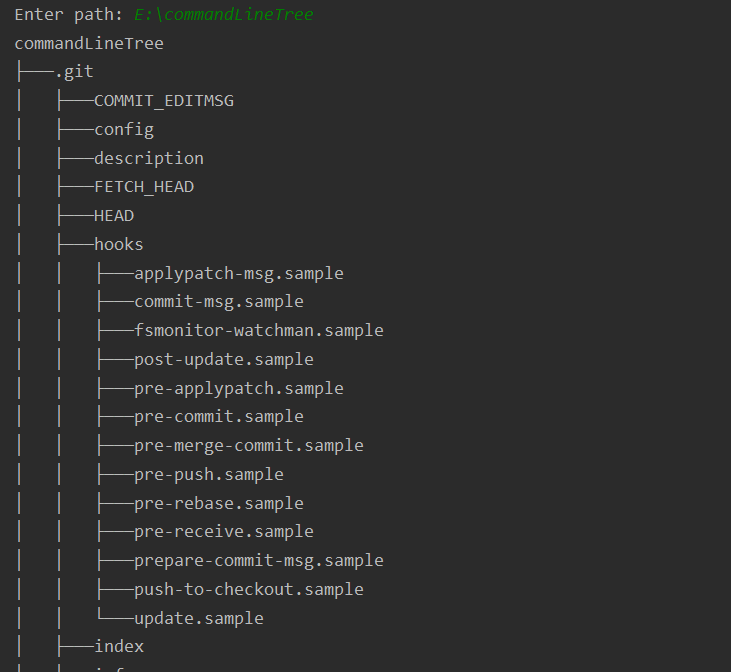
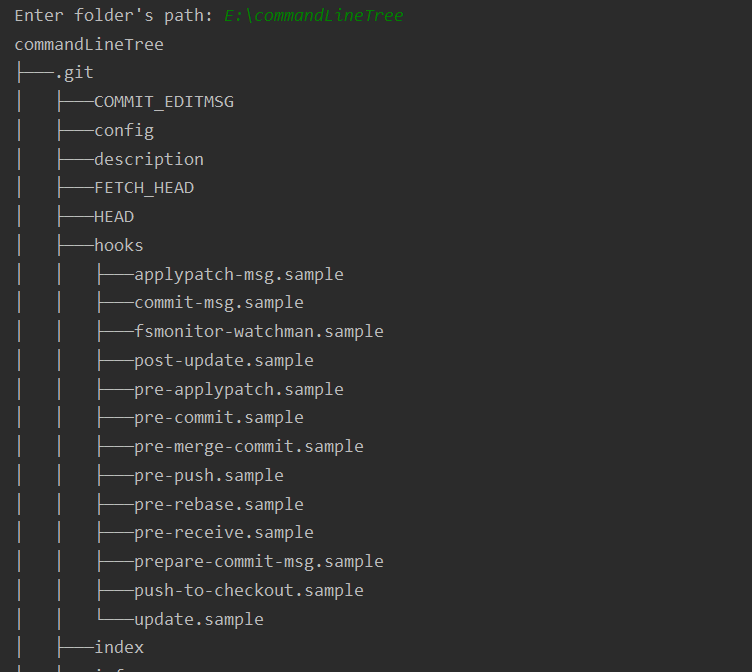
Update client v1.2

diff --git a/src/client/Client.java b/src/client/Client.java
@@ -12,52 +12,29 @@ import java.util.regex.Pattern;
  * @attributes <pre>
  * fileCount        int
  * folderCount      int
- * folderName       String
  * stylize          boolean
  * </pre>
- * @version 1.1
+ * @version 1.2
  * @author Phan Quang Tuan
  */
 public class Client {
     private int fileCount;
     private int folderCount;
-    private String folderName;
     private boolean stylize;
-
-    /**
-     * @effects return fileCount
-     */
-    private int getFileCount() {
-        return fileCount;
-    }
-
-    /**
-     * @effects return folderCount
-     */
-    private int getFolderCount() {
-        return folderCount;
-    }
-
-    /**
-     * @effects return folderName
-     */
-    private String getFolderName() {
-        return folderName;
-    }
 
     private String getDir() {
         Scanner sc = new Scanner(System.in);
-        System.out.print("Enter path: ");
-        String answer = sc.nextLine();
+        System.out.print("Enter folder's path: ");
+        String dirName = sc.nextLine();
 
         Pattern p = Pattern.compile("^(.+)( -s)$");
-        Matcher m = p.matcher(answer);
+        Matcher m = p.matcher(dirName);
         if (m.find()) {
             stylize = true;
             return m.group(1);
         } else {
             stylize = false;
-            return answer;
+            return dirName;
         }
     }
 
@@ -102,45 +79,26 @@ public class Client {
     }
 
     /**
-     * @requires files!=null
-     * @modifies folderName
-     * @effects <pre>
-     *   if f is dir
-     *     set folderName = f.getName()
-     *   else
-     *     set folderName = "this folder is not exist!"
-     * </pre>
+     * a method to call logicLayer layer and count number of file(s) if folderPath is valid.
      */
-    private void updateFolder(File f) {
-        if (f == null) {
-            return;
-        }
+    private void display(String folderPath) {
+        File f = new File(folderPath);
+
         if (f.isDirectory()) {
-            folderName = f.getPath();
-        } else {
-            folderName = "this folder is not exist!";
-        }
-    }
-
-    /**
-     * a method to call logicLayer layer and count number of file(s)
-     */
-    private void display(String folderName) {
-        File f = new File(folderName);
-        updateFolder(f);
-
-        if (f.exists()) {
             long startTime, stopTime, elapsedTime;
             startTime = System.currentTimeMillis();
             System.out.println(GenerateTree.displayFiles(f, stylize));
             stopTime = System.currentTimeMillis();
             elapsedTime = stopTime - startTime;
+            System.out.println("current folder: " + folderPath);
             System.out.println("Algorithm took: " + elapsedTime + " milliseconds to finish");
 
             reset();
             count(f.listFiles());
+            System.out.println("IN TREE (except root): total files: " + fileCount + ", total folders: " + folderCount);
         } else {
             reset();
+            System.out.println("\u001B[31m" + "Folder not found!" + "\u001B[0m");
         }
     }
 
@@ -150,9 +108,6 @@ public class Client {
         startTime = System.currentTimeMillis();
 
         display(folder);
-
-        System.out.println("IN TREE (except root): total files: " + getFileCount() + ", total folders: " + getFolderCount());
-        System.out.println("current folder: " + getFolderName());
 
         stopTime = System.currentTimeMillis();
         elapsedTime = stopTime - startTime;
@@ -169,8 +124,7 @@ public class Client {
         boolean isContinue = true;
         while (isContinue) {
             c.run();
-
-            System.out.print("Do you want to continue? (y/n)");
+            System.out.print("Do you want to continue? (y/n):");
             Scanner sc = new Scanner(System.in);
             String answer = sc.nextLine();
             isContinue = !answer.equalsIgnoreCase("n") && !answer.equalsIgnoreCase("no");

diff --git a/README.md b/README.md
@@ -6,13 +6,17 @@ A Console-based program to print tree of folders and files of a specific path.
 
 ## Techniques
 
-This program implements the abstract data type `Tree` (ADT), partially following the basic design of Dr. Le, Minh Duc.
-<br/>A feature that stands out from the prototype design is the `Tree` implemented to Java's `Collection` interface.
-<br/>Moreover, it does use two `HashMap` attributes to reduce the time complexity while traversing the tree.
+- This program implements the abstract data type `Tree` (ADT), <strong>partially</strong> following the basic design of
+  Dr. Le, Minh Duc.
+- It also implements Java's `Collection` interface.
+- A feature that stands out from the prototype design is:
+  <br/>Instead of using two `Vector` properties to store nodes and edges, the program is built around two `HashMap`
+  properties to reduce time complexity while traversing the tree.
 
 Specifically, The first `HashMap` attributes is `parentEdges`.
 <br/>
-This property allows to trace the edges of each node to the ancestral nodes all the way to the root of the tree.
+This property allows edge storage that connects a node to its parent node. With something similar to a `while` loop, it
+is possible to trace the edges of each node to the ancestral nodes all the way to the root of the tree.
 ![img.png](imgs/2.png)
 <br/><br/>
 The Second `HashMap` attributes is `properF1DescEdges`. It records each node's edges to its "F1" child nodes.
